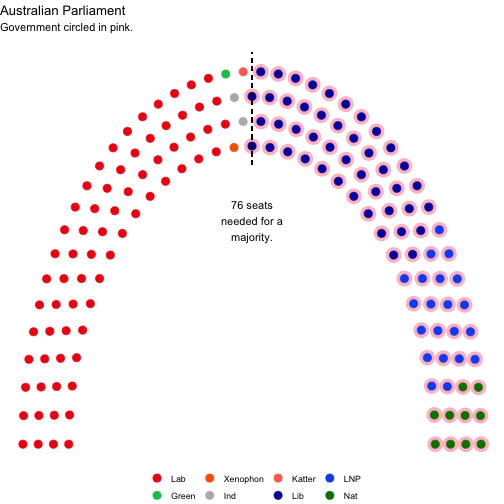
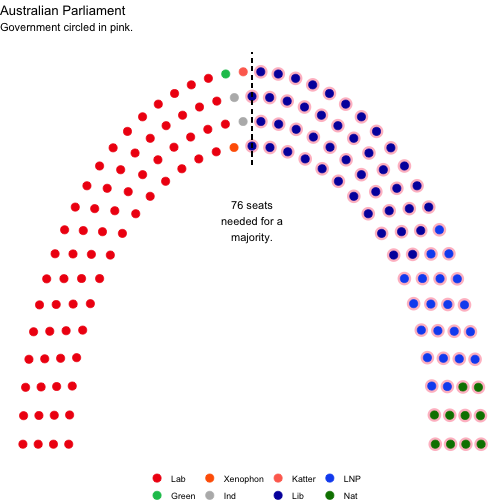
add size parameter to geom_parliament_seats.R

Changed region(s): [[0.4762, 0.119, 0.9524, 0.7738], [0.8333, 0.8631, 0.9821, 0.8929], [0.8333, 0.8036, 0.9524, 0.8333]]

diff --git a/README.md b/README.md
@@ -118,7 +118,7 @@ germany <- parliament_data(election_data = germany,
                            party_seats = germany$seats)
 
 bundestag <- ggplot(germany, aes(x, y, colour = party_short)) +
-  geom_parliament_seats() +
+  geom_parliament_seats(size = 3) +
   geom_highlight_government(government == 1) + 
   labs(colour="Party",
        subtitle = "Government circled in black.") +  
@@ -149,7 +149,7 @@ uk_17 <- election_data %>%
 
 
 commons <- ggplot(uk_17, aes(x, y, colour = party_short)) +
-  geom_parliament_seats() + 
+  geom_parliament_seats(size = 3) + 
   theme_ggparliament() + 
   coord_flip() + 
   labs(colour = NULL, 
@@ -186,7 +186,7 @@ australia <- election_data %>%
 ```r
 au_rep <-ggplot(australia, aes(x, y, colour = party_short)) +
   geom_parliament_seats(size = 3.5) + 
-  geom_highlight_government(government == 1, colour = "pink", size = 5) + 
+  geom_highlight_government(government == 1, colour = "pink", size = 4) + 
   draw_majoritythreshold(n = 76, 
                          label = TRUE, 
                          linesize = 0.5,
